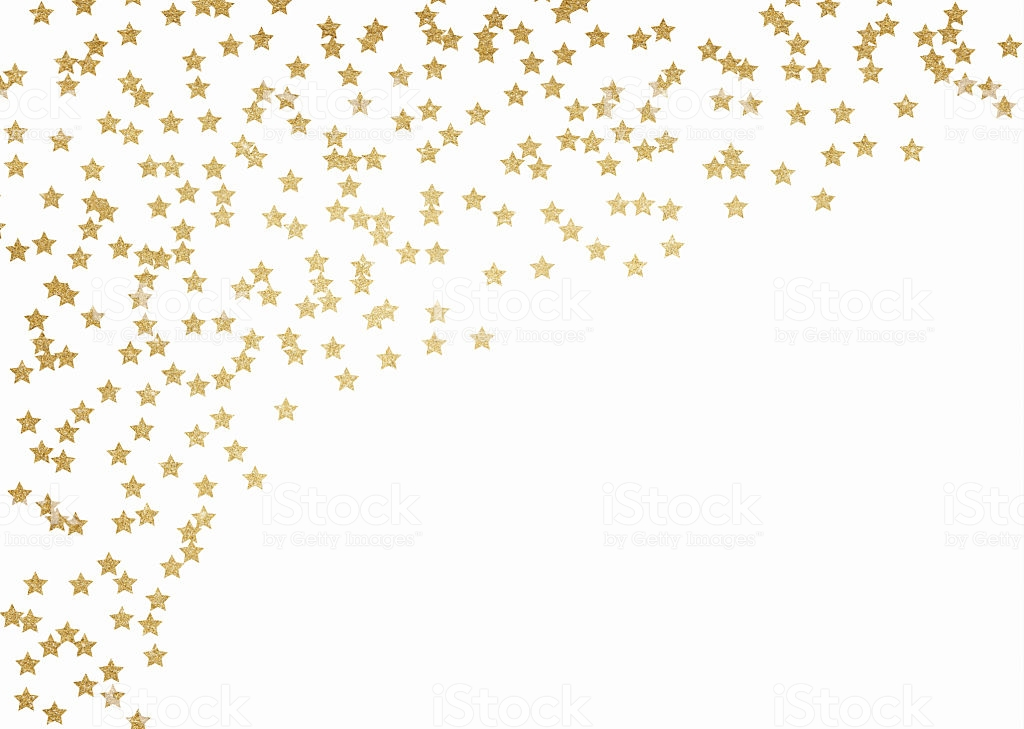
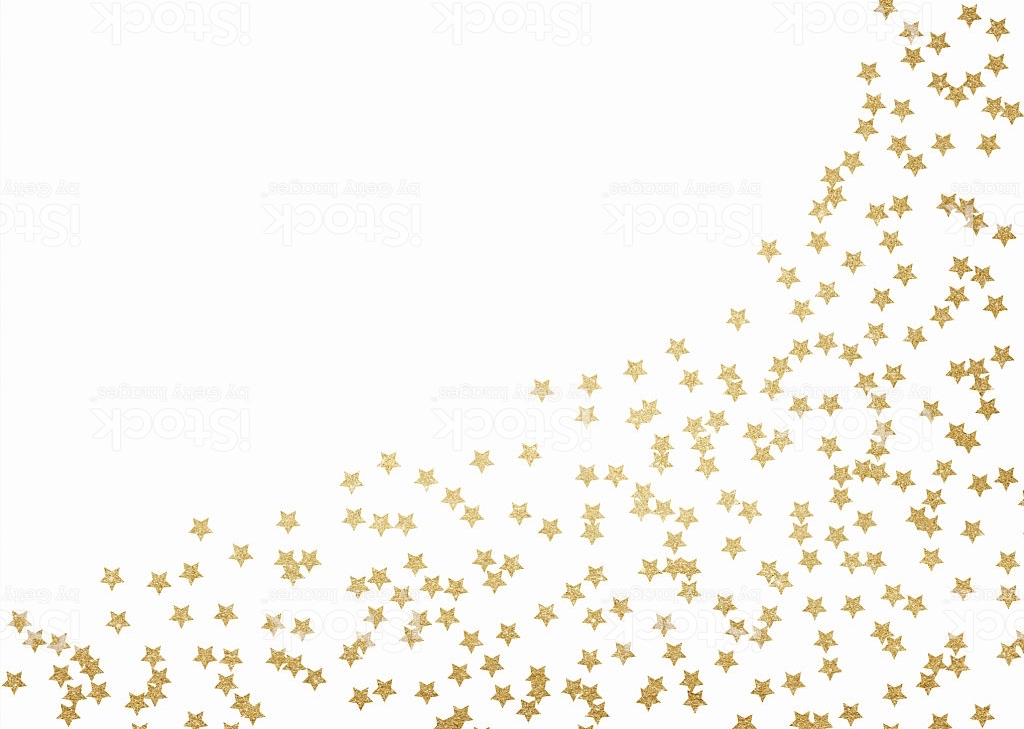
added quotes in the middle of the dashboard, and background color which is screen responsive

diff --git a/client/src/components/pages/maps.js b/client/src/components/pages/maps.js
@@ -16,31 +16,31 @@ class DirectionMap extends React.Component {
     const { maps, path, style, center } = this.props;
  
     return (
-        <div></div>
-    //   <GoogleMap zoom={9} maps={maps} style={style} center={center}>
-    //     <ZoomControl />
+      //  <div></div>
+      <GoogleMap zoom={9} maps={maps} style={style} center={center}>
+        <ZoomControl />
  
-    //     <FitBounds latLngBounds={path} />
+        <FitBounds latLngBounds={path} />
  
-    //     <Polyline path={path} strokeOpacity={0.3} />
+        <Polyline path={path} strokeOpacity={0.3} />
  
-    //     <CustomControl position="BOTTOM_CENTER">
-    //       {step === 0 ? (
-    //         <button onClick={() => this.setState({ step: path.length - 1 })}>
-    //           Start
-    //         </button>
-    //       ) : (
-    //         <button onClick={() => this.setState({ step: 0 })}>Revert</button>
-    //       )}
-    //     </CustomControl>
+        <CustomControl position="BOTTOM_CENTER">
+          {step === 0 ? (
+            <button onClick={() => this.setState({ step: path.length - 1 })}>
+              Start
+            </button>
+          ) : (
+            <button onClick={() => this.setState({ step: 0 })}>Revert</button>
+          )}
+        </CustomControl>
  
-    //     <Motion
-    //       defaultStyle={{ position: 0 }}
-    //       style={{ position: spring(step, { stiffness: 10, damping: 26 }) }}
-    //     >
-    //       {x => <Polyline path={path.slice(0, x.position)} />}
-    //     </Motion>
-    //   </GoogleMap>
+        <Motion
+          defaultStyle={{ position: 0 }}
+          style={{ position: spring(step, { stiffness: 10, damping: 26 }) }}
+        >
+          {x => <Polyline path={path.slice(0, x.position)} />}
+        </Motion>
+      </GoogleMap>
     );
   }
 }

diff --git a/client/src/components/dashboard/Dashboard.js b/client/src/components/dashboard/Dashboard.js
@@ -4,19 +4,46 @@ import { Link } from "react-router-dom";
 import PropTypes from "prop-types";
 
 import { FontAwesomeIcon } from '@fortawesome/react-fontawesome';
-import { faStar } from '@fortawesome/free-solid-svg-icons';
+import { faStar, faQuoteLeft ,faQuoteRight } from '@fortawesome/free-solid-svg-icons';
 
 import { logoutUser } from "../../actions/authActions";
 
+import quote from 'inspirational-quotes';
+
 class Dashboard extends Component {
+
+  constructor(props) {
+    super(props);
+
+    this.state = {
+      text: '',
+      author: '',
+    }
+  }
 
   onLogoutClick = e => {
     e.preventDefault();
     this.props.logoutUser();
   };
 
+  componentDidMount() {
+    this.setQuote();
+  }
+
+  setQuote = () => {
+    let myQuote = quote.getQuote();
+    
+    this.setState({
+      text: myQuote.text,
+      author: myQuote.author
+    })
+  }
+
   render() {
     const { user } = this.props.auth;
+    const { text, author } = this.state;
+
+    console.log("Quote: "+text+", by: "+author);
 
     return (
       <div style={{ height: "75vh" }} className="container valign-wrapper">
@@ -31,6 +58,14 @@ class Dashboard extends Component {
                     <FontAwesomeIcon icon={faStar} />
                   </span>
                 </span>
+              </p>
+              <p>
+                <FontAwesomeIcon icon={faQuoteLeft} />
+                {text}
+                <FontAwesomeIcon icon={faQuoteRight} />
+              </p>
+              <p style={{fontStyle: "italic"}}>
+                {author}
               </p>
             </h4>
             <div style={{display:"inline-block" }} className="">

diff --git a/client/src/components/pages/achievement_view.js b/client/src/components/pages/achievement_view.js
@@ -108,7 +108,7 @@ class Earnings extends Component {
                                 key="task_btn"
                                 to="/tasks"
                                 style={{
-                                    width: "195px",
+                                    width: "5vw",
                                     borderRadius: "3px",
                                     letterSpacing: "1.5px",
                                     color: "black",
@@ -122,7 +122,7 @@ class Earnings extends Component {
                                 key="video_btn"
                                 to="/video"
                                 style={{
-                                    width: "300px",
+                                    width: "5vw",
                                     borderRadius: "3px",
                                     letterSpacing: "1.5px",
                                     color: "black",
@@ -136,7 +136,7 @@ class Earnings extends Component {
                         <></>
                         <button
                             style={{
-                                width: "150px",
+                                width: "5vw",
                                 borderRadius: "3px",
                                 letterSpacing: "1.5px",
                                 marginTop: "1rem",

diff --git a/client/src/index.css b/client/src/index.css
@@ -1,4 +1,19 @@
 body {
+  /* Location of the image */
+  background-image: url(starBG.jpg);
+  /* Background image is centered vertically and horizontally at all times */
+  background-position: center center;
+  /* Background image doesn't tile */
+  background-repeat: no-repeat;
+  /* Background image is fixed in the viewport so that it doesn't move when 
+     the content's height is greater than the image's height */
+  background-attachment: fixed;
+  /* This is what makes the background image rescale based
+     on the container's size */
+  background-size: cover;
+  /* Set a background color that will be displayed
+     while the background image is loading */
+  background-color: #464646;
   margin: 0;
   padding: 0;
   font-family: 'Coustard', serif;
@@ -8,6 +23,7 @@ body {
   -webkit-font-smoothing: antialiased;
   -moz-osx-font-smoothing: grayscale;
 }
+
 code {
   font-family: source-code-pro, Menlo, Monaco, Consolas, "Courier New",
     monospace;

diff --git a/client/src/App.css b/client/src/App.css
@@ -5,6 +5,7 @@
     float: left; */
 
 
+
 #goldStarSolid{
     font-size: 2vw;
     vertical-align: middle;
@@ -45,6 +46,15 @@ li {
     background-color: rgb(226, 225, 225);
 } */
 
+/* .navbar-fixed {
+    border-width: 0px;
+    -webkit-box-shadow: 0px 0px;
+    box-shadow: 0px 0px;
+    background-color: rgba(0,0,0,0.0);
+    background-image: -webkit-gradient(linear, 50.00% 0.00%, 50.00% 100.00%, color-stop( 0% , rgba(0,0,0,0.00)),color-stop( 100% , rgba(0,0,0,0.00)));
+    background-image: -webkit-linear-gradient(270deg,rgba(0,0,0,0.00) 0%,rgba(0,0,0,0.00) 100%);
+    background-image: linear-gradient(180deg,rgba(0,0,0,0.00) 0%,rgba(0,0,0,0.00) 100%);
+} */
 
 #taskname {
     display: inline-block;

diff --git a/client/src/App.js b/client/src/App.js
@@ -66,7 +66,7 @@ class App extends Component {
               <PrivateRoute exact path="/achievements" component={Earnings} />
               <PrivateRoute exact path="/video" component={video}/>
               <PrivateRoute exact path="/tasks" component={Tasks} />
-              <PrivateRoute exact path="/maps" component={DirectionMap} />
+              {/* <PrivateRoute exact path="/maps" component={DirectionMap} /> */}
               {/* <PrivateRoute exact path="/chatpage" component={Chatpage} /> */}
             </Switch>
           </div>

diff --git a/client/src/components/video/video_list_item.js b/client/src/components/video/video_list_item.js
@@ -10,7 +10,7 @@ const VideoListItem = (props) => {
     <li onClick={() => onUserSelected(video)} className="list-group-item">
         <div className="video-list media">
             <div className="media-left">
-                <img className="media-object" src={imageUrl} />
+                <img className="media-object" src={imageUrl} alt=''/>
             </div>
             <div className="media-body">
                 <div className="media-heading">{video.snippet.title}</div>

diff --git a/client/src/components/layout/Navbar.js b/client/src/components/layout/Navbar.js
@@ -8,7 +8,7 @@ class Navbar extends Component {
     return (
       <div className="navbar-fixed">
         {/* <nav className="z-depth-0"> */}
-          <div className="nav-wrapper white">
+          <div className="nav-wrapper">
             <Link to="/"
               style={{
                 fontFamily: "monospace",
